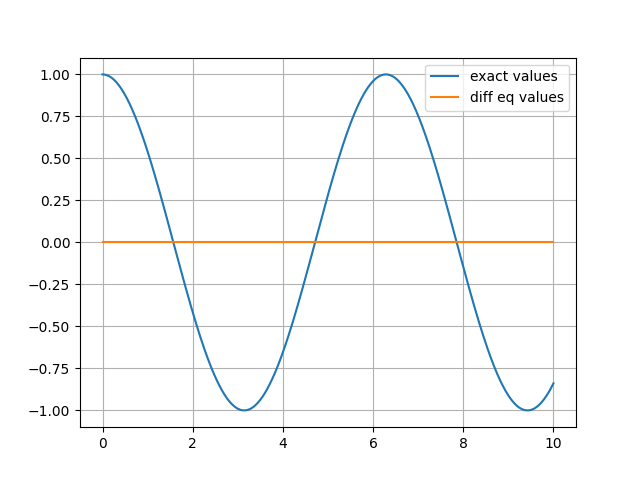
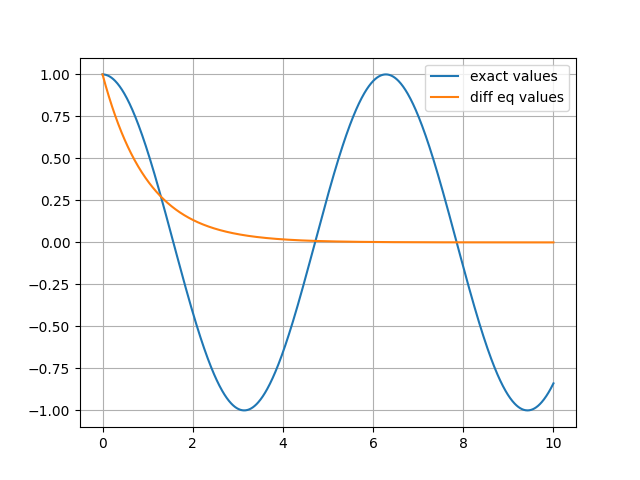
tried to fix diff eq in gravity-sim.py, but was unsuccessful

diff --git a/spring.py b/spring.py
@@ -30,13 +30,14 @@ def main():
     x_exact, v_exact = sho_solved(x_0, v_0, m, k, t)
 
     dt = t[1]
-    x_diff = [x_0]
+    x_diff = [1.0]
     v_diff = [v_0]
 
     for i in range(len(t)-1):
         x_dt, v_dt = sho_diff(x_diff[-1], v_diff[-1], m, k, dt)
         x_diff.append(x_dt)
         v_diff.append(v_dt)
+        # print(f"x: {x_diff[i]}, v: {v_diff[i]}, dt: {dt}")
 
     # plotting x values 
     
